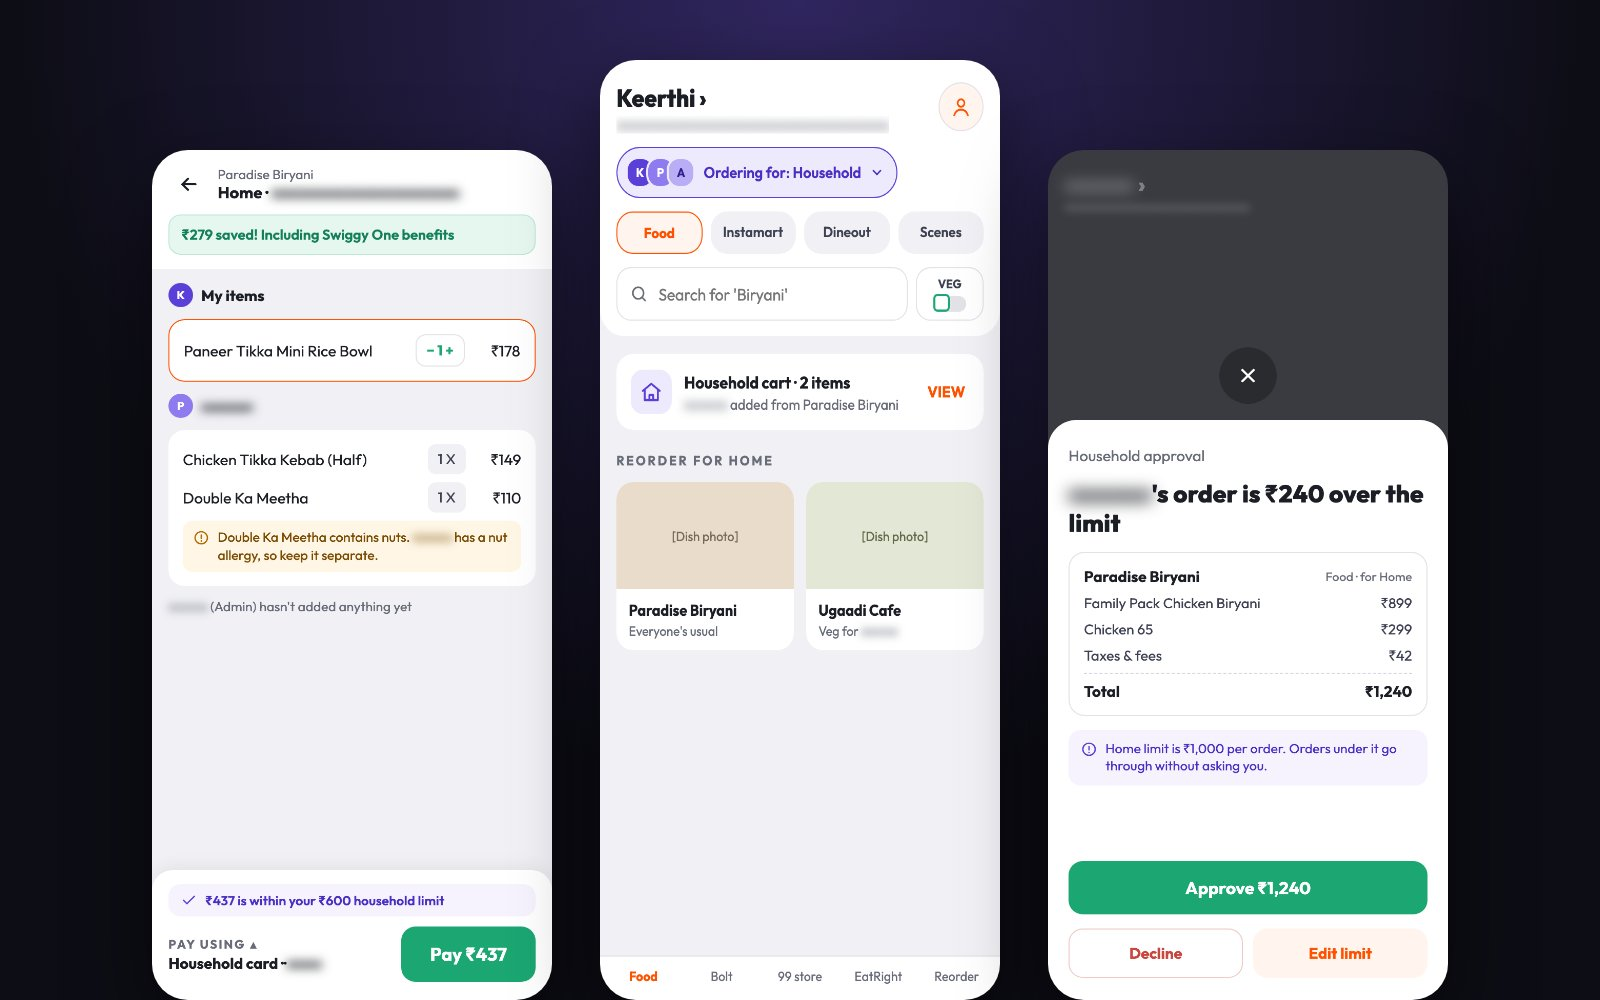
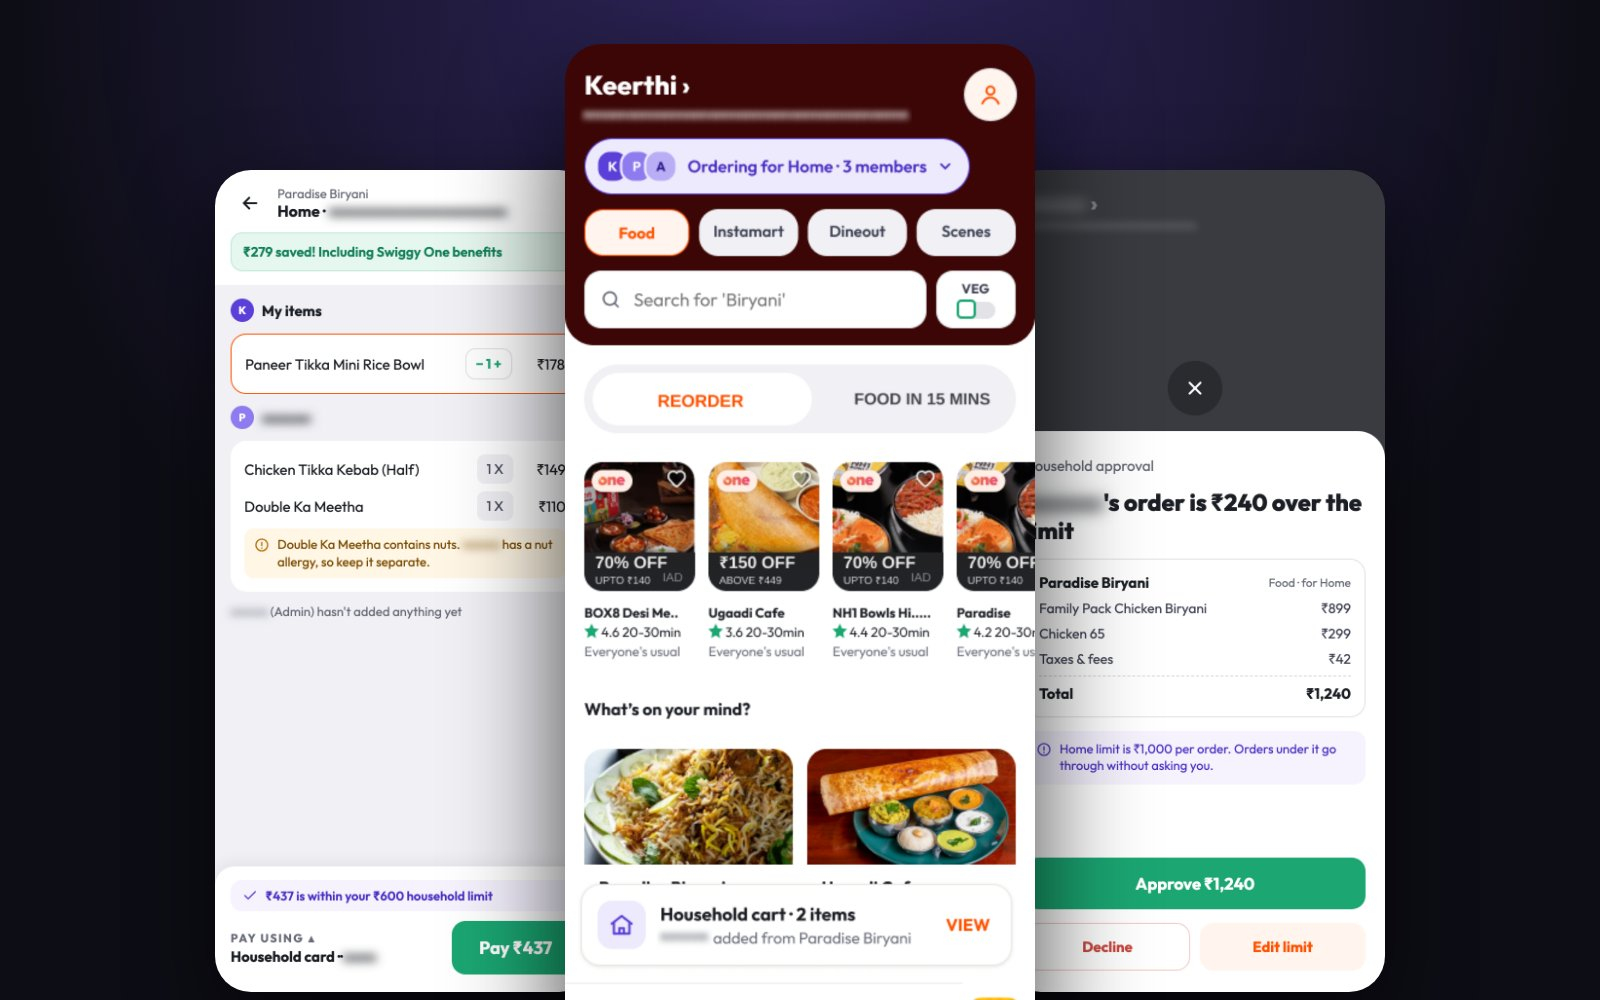
Reframe Swiggy Household as our findings and add Home hero

diff --git a/src/pages/CaseStudySwiggyHousehold.jsx b/src/pages/CaseStudySwiggyHousehold.jsx
@@ -8,7 +8,7 @@ const asset = (name) => `${import.meta.env.BASE_URL}case-studies/swiggy-househol
 
 const meta = [
   { label: 'Role', value: 'UX research + product design' },
-  { label: 'Type', value: 'Concept / design challenge' },
+  { label: 'Type', value: 'Concept project' },
   { label: 'Duration', value: 'About 1 week' },
   { label: 'Tools', value: 'Figma, Claude' },
 ];
@@ -175,7 +175,7 @@ const testStats = [
 
 const reflections = [
   {
-    title: "What I'd test next",
+    title: "What we'd test next",
     desc: 'A clickable prototype, and a solid vs outline chip.',
   },
   {
@@ -183,8 +183,8 @@ const reflections = [
     desc: 'Ordering from several restaurants. 3 of 7 brought it up in the test.',
   },
   {
-    title: 'How I used AI',
-    desc: 'It sped up drafting. Research, testing and decisions stayed mine.',
+    title: 'How we used AI',
+    desc: 'It sped up drafting. Research, testing and decisions stayed ours.',
   },
 ];
 
@@ -233,8 +233,8 @@ const CaseStudySwiggyHousehold = () => {
             <Reveal type="scale" delay={0.15} className="sh-hero-stage">
               <img
                 className="sh-phone"
-                src={asset('home-chip.png')}
-                alt='Swiggy Home screen with an "Ordering for: Household" chip and member avatars under the delivery address.'
+                src={asset('home-hero.png')}
+                alt='Swiggy Home screen with an "Ordering for Home · 3 members" chip under the delivery address, restaurant offers, and a household cart bar at the bottom.'
                 width="780"
                 height="1688"
               />
@@ -263,15 +263,15 @@ const CaseStudySwiggyHousehold = () => {
         <section className="section cs-section cs-alt">
           <div className="container cs-narrow">
             <Reveal type="up" className="section-head">
-              <span className="eyebrow">The tension</span>
+              <span className="eyebrow">Our findings</span>
               <h2>Everyone orders together. The app doesn't know.</h2>
               <p>
-                5 of 6 people I interviewed order for flatmates, partners, teens or elderly
+                5 of 6 people we interviewed order for flatmates, partners, teens or elderly
                 parents. They pass the phone around, split bills on PhonePe and check food
                 labels by hand.
               </p>
               <p>
-                Group Order exists, but 5 of 6 didn't know about it. I asked 4 to try it, and
+                Group Order exists, but 5 of 6 didn't know about it. We asked 4 to try it, and
                 all 4 hit problems.
               </p>
             </Reveal>
@@ -395,7 +395,7 @@ const CaseStudySwiggyHousehold = () => {
         <section className="section cs-section">
           <div className="container">
             <Reveal type="up" className="section-head">
-              <span className="eyebrow">The design</span>
+              <span className="eyebrow">Our solution</span>
               <h2>Five moments where the household shows up.</h2>
             </Reveal>
             <Reveal type="up" amount={0.1}>
@@ -518,11 +518,11 @@ const CaseStudySwiggyHousehold = () => {
         <section className="section cs-section cs-alt">
           <div className="container cs-narrow">
             <Reveal type="up" className="section-head">
-              <span className="eyebrow">What I changed</span>
+              <span className="eyebrow">What we changed</span>
               <h2>People start from food, not settings.</h2>
               <p>
-                So I added a household banner on the restaurant page and a prompt in the cart.
-                And I renamed the chip, because "Home" and "3 members" confused people.
+                So we added a household banner on the restaurant page and a prompt in the cart.
+                And we renamed the chip, because "Home" and "3 members" confused people.
               </p>
             </Reveal>
             <Reveal type="up" className="sh-rename">
